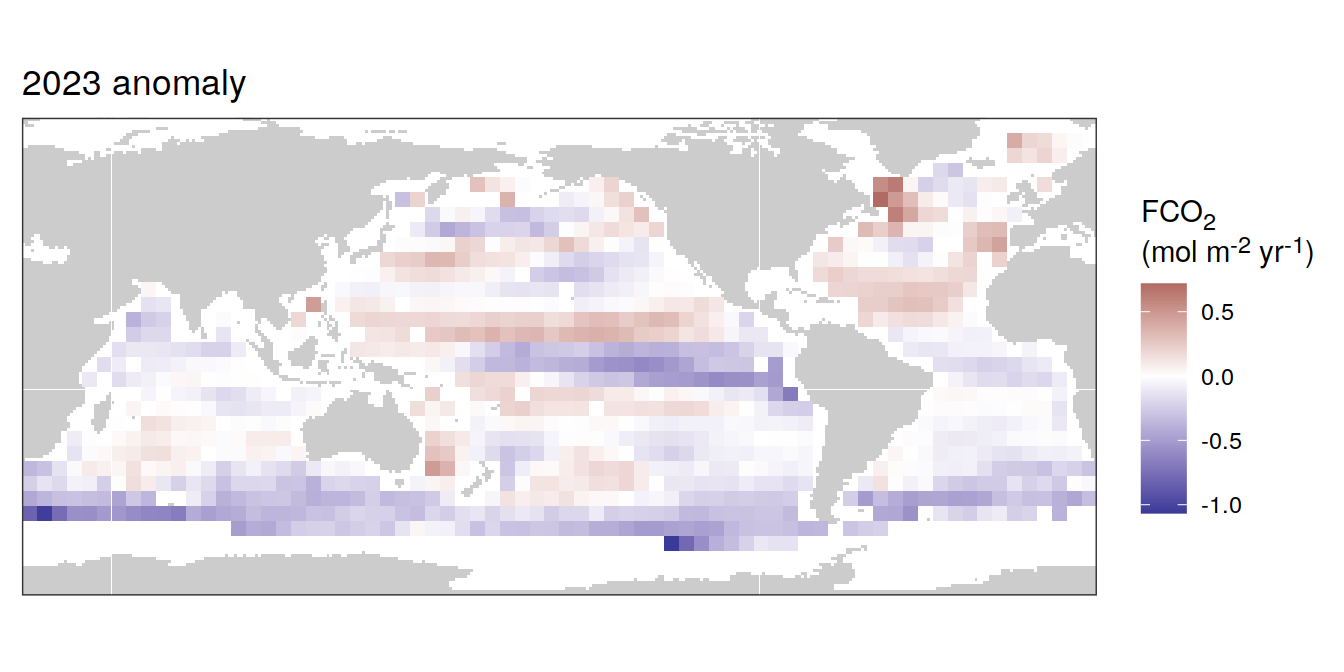
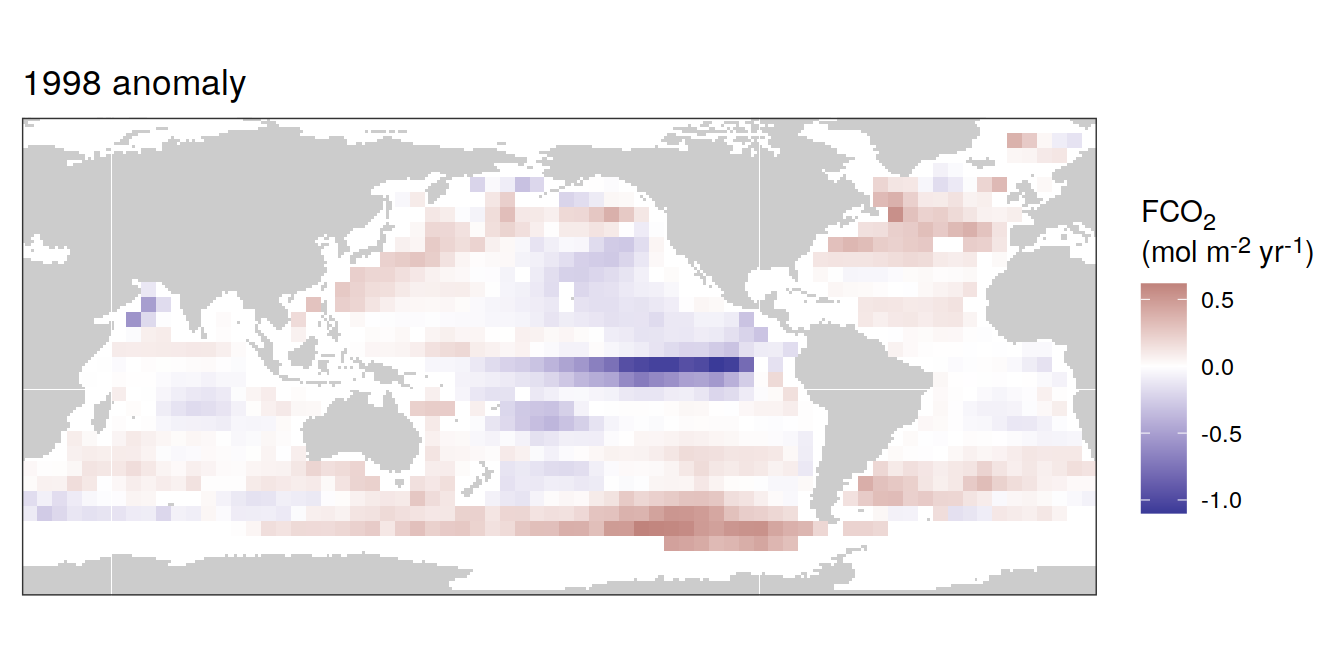
Build site.

diff --git a/docs/CMEMS.html b/docs/CMEMS.html
@@ -421,7 +421,7 @@ div.tocify {
 
 <h1 class="title toc-ignore">CMEMS</h1>
 <h4 class="author">Jens Daniel Müller</h4>
-<h4 class="date">04 April, 2024</h4>
+<h4 class="date">05 April, 2024</h4>
 
 </div>
 
@@ -450,7 +450,7 @@ class="glyphicon glyphicon-ok text-success" aria-hidden="true"></span>
 <div class="tab-content">
 <div id="summary" class="tab-pane fade in active">
 <p>
-<strong>Last updated:</strong> 2024-04-04
+<strong>Last updated:</strong> 2024-04-05
 </p>
 <p>
 <strong>Checks:</strong> <span
@@ -582,15 +582,15 @@ project makes it easier to run your code on other machines.</p>
 <div class="panel panel-default">
 <div class="panel-heading">
 <p class="panel-title">
-<a data-toggle="collapse" data-parent="#workflowr-checks" href="#strongRepositoryversionstrongahrefhttpsgithubcomjensdanielmuellerheatwaveco2flux2023tree5742bedd57bd51feb728206fac7497d0bf49ea7ftargetblank5742beda">
+<a data-toggle="collapse" data-parent="#workflowr-checks" href="#strongRepositoryversionstrongahrefhttpsgithubcomjensdanielmuellerheatwaveco2flux2023treead6839e92bef0d02756b412087077c7674cbcc94targetblankad6839ea">
 <span class="glyphicon glyphicon-ok text-success"
 aria-hidden="true"></span> <strong>Repository version:</strong>
-<a href="https://github.com/jens-daniel-mueller/heatwave_co2_flux_2023/tree/5742bedd57bd51feb728206fac7497d0bf49ea7f" target="_blank">5742bed</a>
+<a href="https://github.com/jens-daniel-mueller/heatwave_co2_flux_2023/tree/ad6839e92bef0d02756b412087077c7674cbcc94" target="_blank">ad6839e</a>
 </a>
 </p>
 </div>
 <div
[2 lines of base64/hex data omitted]
 class="panel-collapse collapse">
 <div class="panel-body">
 <p>
@@ -600,7 +600,7 @@ reproducibility.
 </p>
 <p>
 The results in this page were generated with repository version
-<a href="https://github.com/jens-daniel-mueller/heatwave_co2_flux_2023/tree/5742bedd57bd51feb728206fac7497d0bf49ea7f" target="_blank">5742bed</a>.
+<a href="https://github.com/jens-daniel-mueller/heatwave_co2_flux_2023/tree/ad6839e92bef0d02756b412087077c7674cbcc94" target="_blank">ad6839e</a>.
 See the <em>Past versions</em> tab to see a history of the changes made
 to the R Markdown and HTML files.
 </p>
@@ -619,17 +619,7 @@ Ignored files:
     Ignored:    .Rproj.user/
     Ignored:    data/input/
 
-Untracked files:
-    Untracked:  analysis/child/pCO2_product_preprocessing.Rmd
-
 Unstaged changes:
-    Deleted:    analysis/CMEMS_2022.Rmd
-    Deleted:    analysis/CMEMS_2023.Rmd
-    Deleted:    analysis/OceanSODA_2022.Rmd
-    Deleted:    analysis/OceanSODA_2023.Rmd
-    Deleted:    analysis/SOM_FFN_2022.Rmd
-    Deleted:    analysis/SOM_FFN_2023.Rmd
-    Modified:   analysis/_site.yml
     Modified:   analysis/child/pCO2_product_analysis.Rmd
     Modified:   code/Workflowr_project_managment.R
 
@@ -676,6 +666,40 @@ Message
 </tr>
 </thead>
 <tbody>
+<tr>
+<td>
+Rmd
+</td>
+<td>
+<a href="https://github.com/jens-daniel-mueller/heatwave_co2_flux_2023/blob/ad6839e92bef0d02756b412087077c7674cbcc94/analysis/CMEMS.Rmd" target="_blank">ad6839e</a>
+</td>
+<td>
+jens-daniel-mueller
+</td>
+<td>
+2024-04-05
+</td>
+<td>
+fixed anomaly maps
+</td>
+</tr>
+<tr>
+<td>
+html
+</td>
+<td>
+<a href="https://rawcdn.githack.com/jens-daniel-mueller/heatwave_co2_flux_2023/69dc18c568b7207b685194d3ea8f675c4e25aa8e/docs/CMEMS.html" target="_blank">69dc18c</a>
+</td>
+<td>
+jens-daniel-mueller
+</td>
+<td>
+2024-04-04
+</td>
+<td>
+Build site.
+</td>
+</tr>
 <tr>
 <td>
 html
@@ -1060,7 +1084,46 @@ nc &lt;-
     &quot;CO2_fluxes/fluxCO2_model_v2022_r100_202402.nc&quot;
   ))
 
-print(nc)</code></pre>
+nc &lt;-
+  nc_open(&quot;/nfs/kryo/work/datasets/gridded/ocean/2d/observation/pco2/cmems_ffnn/v2020/v2020.nc&quot;)
+
+print(nc)
+
+ncatt_get(nc, varid = &quot;time&quot;)
+ncvar_get(nc, varid = &quot;time&quot;)</code></pre>
+<pre class="r"><code>pco2_product &lt;-
+  read_stars(
+    &quot;/nfs/kryo/work/datasets/gridded/ocean/2d/observation/pco2/cmems_ffnn/v2021/v2021.nc&quot;,
+    make_units = FALSE,
+    ignore_bounds = TRUE
+  )
+
+pco2_product &lt;-
+  read_stars(
+    &quot;/nfs/kryo/work/datasets/gridded/ocean/2d/observation/pco2/cmems_ffnn/v2023/dataset-carbon-rep-monthly_20221215T0000Z_P20230821T1545Z.nc&quot;,
+    make_units = FALSE,
+    ignore_bounds = TRUE
+  )
+  
+pco2_product &lt;- pco2_product %&gt;%
+  as_tibble()
+
+
+pco2_product %&gt;%
+  distinct(time) %&gt;% 
+  pull() %&gt;% 
+  max()
+
+pco2_product %&gt;%
+  drop_na() %&gt;%
+  units::drop_units() %&gt;% 
+  group_by(x, y) %&gt;%
+  summarise(fgco2 = mean(fgco2)) %&gt;%
+  ungroup() %&gt;%
+  ggplot(aes(x, y, fill = fgco2)) +
+  geom_raster() +
+  coord_quickmap() +
+  scale_fill_continuous_divergingx()</code></pre>
 <pre class="r"><code>names &lt;- c(&quot;CO2_fluxes&quot;, &quot;CO2_fugacity&quot;)
 
 for (i_name in names) {
@@ -2008,11 +2071,12 @@ jens-daniel-mueller
 <pre class="r"><code>pco2_product_coarse_annual_regression &lt;-
   pco2_product_coarse_annual_regression %&gt;%
   group_by(name) %&gt;%
-  filter(year %in% c(min(year), max(year))) %&gt;%
+  filter(year %in% c(min(year), max(year), 2023)) %&gt;%
   ungroup()
 
 pco2_product_coarse_annual_regression %&gt;%
   select(-c(value, resid)) %&gt;%
+  filter(year %in% c(min(year), max(year))) %&gt;%
   arrange(year) %&gt;%
   group_by(lon, lat, name) %&gt;%
   mutate(change = fit - lag(fit),
@@ -8331,11 +8395,12 @@ jens-daniel-mueller
 <pre class="r"><code>pco2_product_coarse_annual_regression &lt;-
   pco2_product_coarse_annual_regression %&gt;%
   group_by(name) %&gt;%
-  filter(year %in% c(min(year), max(year))) %&gt;%
+  filter(year %in% c(min(year), max(year), 2022)) %&gt;%
   ungroup()
 
 pco2_product_coarse_annual_regression %&gt;%
   select(-c(value, resid)) %&gt;%
+  filter(year %in% c(min(year), max(year))) %&gt;%
   arrange(year) %&gt;%
   group_by(lon, lat, name) %&gt;%
   mutate(change = fit - lag(fit),
@@ -8448,7 +8513,85 @@ jens-daniel-mueller
            name = labels_breaks(.x %&gt;% distinct(name))) +
          theme(legend.title = element_markdown())
   )</code></pre>
-<pre><code>list()</code></pre>
+<pre><code>[[1]]</code></pre>
+<p><img src="figure/CMEMS.Rmd/anomaly_anomaly_year_annual_mean_maps-1.png" width="672" style="display: block; margin: auto;" /></p>
+<p>
+<button type="button" class="btn btn-default btn-xs btn-workflowr btn-workflowr-fig" data-toggle="collapse" data-target="#fig-anomaly_anomaly_year_annual_mean_maps-1">
+Past versions of anomaly_anomaly_year_annual_mean_maps-1.png
+</button>
+</p>
+<div id="fig-anomaly_anomaly_year_annual_mean_maps-1" class="collapse">
+<div class="table-responsive">
+<table class="table table-condensed table-hover">
+<thead>
+<tr>
+<th>
+Version
+</th>
+<th>
+Author
+</th>
+<th>
+Date
+</th>
+</tr>
+</thead>
+<tbody>
+<tr>
+<td>
+<a href="https://github.com/jens-daniel-mueller/heatwave_co2_flux_2023/blob/c9d994ca6984d512279f0ad2be8b9e7ab804ee15/docs/figure/CMEMS.Rmd/anomaly_anomaly_year_annual_mean_maps-1.png" target="_blank">c9d994c</a>
+</td>
+<td>
+jens-daniel-mueller
+</td>
+<td>
+2024-04-04
+</td>
+</tr>
+</tbody>
+</table>
+</div>
+</div>
+<pre><code>
+[[2]]</code></pre>
+<p><img src="figure/CMEMS.Rmd/anomaly_anomaly_year_annual_mean_maps-2.png" width="672" style="display: block; margin: auto;" /></p>
+<p>
+<button type="button" class="btn btn-default btn-xs btn-workflowr btn-workflowr-fig" data-toggle="collapse" data-target="#fig-anomaly_anomaly_year_annual_mean_maps-2">
+Past versions of anomaly_anomaly_year_annual_mean_maps-2.png
+</button>
+</p>
+<div id="fig-anomaly_anomaly_year_annual_mean_maps-2" class="collapse">
+<div class="table-responsive">
+<table class="table table-condensed table-hover">
+<thead>
+<tr>
+<th>
+Version
+</th>
+<th>
+Author
+</th>
+<th>
+Date
+</th>
+</tr>
+</thead>
+<tbody>
+<tr>
+<td>
+<a href="https://github.com/jens-daniel-mueller/heatwave_co2_flux_2023/blob/c9d994ca6984d512279f0ad2be8b9e7ab804ee15/docs/figure/CMEMS.Rmd/anomaly_anomaly_year_annual_mean_maps-2.png" target="_blank">c9d994c</a>
+</td>
+<td>
+jens-daniel-mueller
+</td>
+<td>
+2024-04-04
+</td>
+</tr>
+</tbody>
+</table>
+</div>
+</div>
 <pre class="r"><code>pco2_product_coarse_annual_regression %&gt;%
   write_csv(paste0(&quot;../data/&quot;,&quot;CMEMS&quot;,&quot;_&quot;,&quot;2022&quot;,&quot;_anomaly_map_annual.csv&quot;))</code></pre>
 </div>
@@ -14576,11 +14719,12 @@ jens-daniel-mueller
 <pre class="r"><code>pco2_product_coarse_annual_regression &lt;-
   pco2_product_coarse_annual_regression %&gt;%
   group_by(name) %&gt;%
-  filter(year %in% c(min(year), max(year))) %&gt;%
+  filter(year %in% c(min(year), max(year), 1998)) %&gt;%
   ungroup()
 
 pco2_product_coarse_annual_regression %&gt;%
   select(-c(value, resid)) %&gt;%
+  filter(year %in% c(min(year), max(year))) %&gt;%
   arrange(year) %&gt;%
   group_by(lon, lat, name) %&gt;%
   mutate(change = fit - lag(fit),
@@ -14693,7 +14837,85 @@ jens-daniel-mueller
            name = labels_breaks(.x %&gt;% distinct(name))) +
          theme(legend.title = element_markdown())
   )</code></pre>
-<pre><code>list()</code></pre>
+<pre><code>[[1]]</code></pre>
+<p><img src="figure/CMEMS.Rmd/anomaly_anomaly_year_annual_mean_maps-1.png" width="672" style="display: block; margin: auto;" /></p>
+<p>
+<button type="button" class="btn btn-default btn-xs btn-workflowr btn-workflowr-fig" data-toggle="collapse" data-target="#fig-anomaly_anomaly_year_annual_mean_maps-1">
+Past versions of anomaly_anomaly_year_annual_mean_maps-1.png
+</button>
+</p>
+<div id="fig-anomaly_anomaly_year_annual_mean_maps-1" class="collapse">
+<div class="table-responsive">
+<table class="table table-condensed table-hover">
+<thead>
+<tr>
+<th>
+Version
+</th>
+<th>
+Author
+</th>
+<th>
+Date
+</th>
+</tr>
+</thead>
+<tbody>
+<tr>
+<td>
+<a href="https://github.com/jens-daniel-mueller/heatwave_co2_flux_2023/blob/c9d994ca6984d512279f0ad2be8b9e7ab804ee15/docs/figure/CMEMS.Rmd/anomaly_anomaly_year_annual_mean_maps-1.png" target="_blank">c9d994c</a>
+</td>
+<td>
+jens-daniel-mueller
+</td>
+<td>
+2024-04-04
+</td>
+</tr>
+</tbody>
+</table>
+</div>
+</div>
+<pre><code>
+[[2]]</code></pre>
+<p><img src="figure/CMEMS.Rmd/anomaly_anomaly_year_annual_mean_maps-2.png" width="672" style="display: block; margin: auto;" /></p>
+<p>
+<button type="button" class="btn btn-default btn-xs btn-workflowr btn-workflowr-fig" data-toggle="collapse" data-target="#fig-anomaly_anomaly_year_annual_mean_maps-2">
+Past versions of anomaly_anomaly_year_annual_mean_maps-2.png
+</button>
+</p>
+<div id="fig-anomaly_anomaly_year_annual_mean_maps-2" class="collapse">
+<div class="table-responsive">
+<table class="table table-condensed table-hover">
+<thead>
+<tr>
+<th>
+Version
+</th>
+<th>
+Author
+</th>
+<th>
+Date
+</th>
+</tr>
+</thead>
+<tbody>
+<tr>
+<td>
+<a href="https://github.com/jens-daniel-mueller/heatwave_co2_flux_2023/blob/c9d994ca6984d512279f0ad2be8b9e7ab804ee15/docs/figure/CMEMS.Rmd/anomaly_anomaly_year_annual_mean_maps-2.png" target="_blank">c9d994c</a>
+</td>
+<td>
+jens-daniel-mueller
+</td>
+<td>
+2024-04-04
+</td>
+</tr>
+</tbody>
+</table>
+</div>
+</div>
 <pre class="r"><code>pco2_product_coarse_annual_regression %&gt;%
   write_csv(paste0(&quot;../data/&quot;,&quot;CMEMS&quot;,&quot;_&quot;,&quot;1998&quot;,&quot;_anomaly_map_annual.csv&quot;))</code></pre>
 </div>
